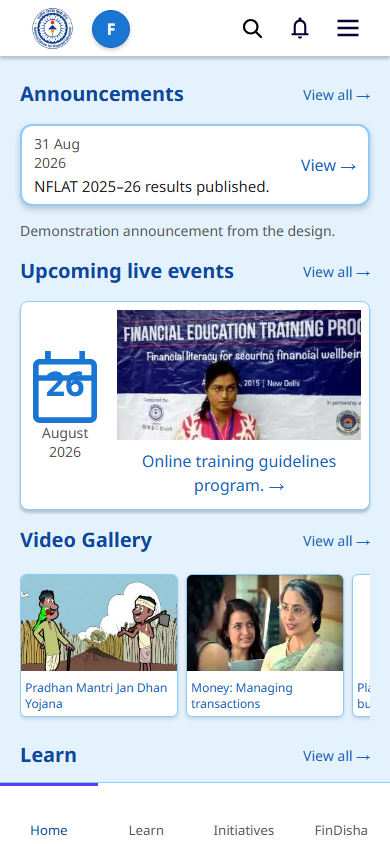
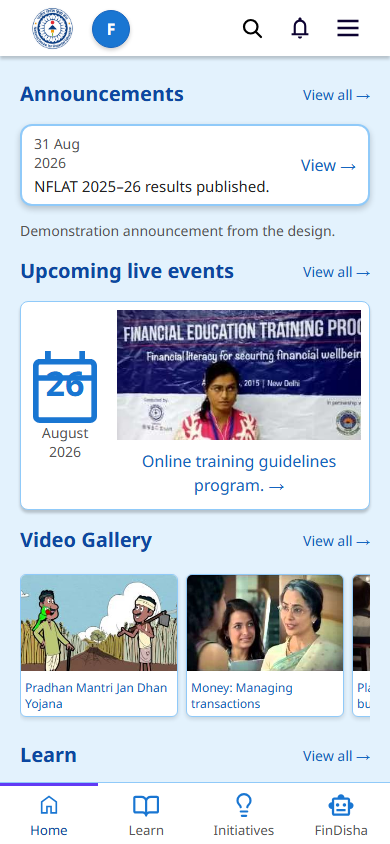
fix:preserve-learning-navigation-state

diff --git a/src/App.tsx b/src/App.tsx
@@ -1,6 +1,6 @@
 import { useTranslation, LocaleProvider } from './i18n';
 import { useEffect, useRef, useState } from 'react';
-import { Link, NavLink, Navigate, Route, Routes, useLocation, useNavigate } from 'react-router-dom';
+import { Link, Navigate, Route, Routes, useLocation, useNavigate } from 'react-router-dom';
 import { StateProvider, useApp } from './state';
 import { Presentation } from './Presentation';
 import { Dialog, Icon, Logo, Page, PrototypeNote } from './components/UI';
@@ -34,6 +34,6 @@ function Shell() {
         app.resetDemo();
         navigate('/onboarding');
     } }; window.addEventListener('message', receive); return () => window.removeEventListener('message', receive); }, [app, navigate]);
-    return <div className={`${s.shell} ${onboarding ? s.onboardShell : ''} ${app.dark ? s.dark : ''}`} lang={app.language}><a className={s.skipLink} href="#main-content">{t("Skip to content")}</a>{!onboarding && <header className={s.header}><Link to="/home" aria-label={t("NCFE prototype Home")}><Logo /></Link><div className={s.headerActions}><Link className={s.iconButton} to="/learn/search" aria-label={t("Topics Search")}><Icon name="search"/></Link><Link className={s.iconButton} to="/announcements" aria-label={t("Notifications")}><Icon name="notification"/></Link><button className={s.iconButton} onClick={() => setMenu(true)} aria-label={t("Open menu")}><Icon name="menu"/></button></div></header>}<button className={s.feedbackTrigger} onClick={() => setFeedback(true)} aria-label={t("Give Feedback")}><span className={s.mobileLabel} aria-hidden="true">{t("F")}</span><span className={s.desktopLabel}>{t("Feedback")}</span></button><main id="main-content" ref={main} className={s.main} tabIndex={-1}>{!onboarding && <div>{app.language !== 'en' && <p className={s.notice}>{t("Draft translation for usability testing. Programme and policy names remain unchanged. Text in original images may remain in English.")}</p>}</div>}<Routes><Route path="/" element={<Navigate to="/onboarding" replace/>}/><Route path="/onboarding" element={<Onboarding />}/><Route path="/home" element={<Home />}/><Route path="/announcements" element={<Announcements />}/><Route path="/events" element={<Announcements events/>}/><Route path="/learn" element={<Navigate to="/learn/textbooks" replace/>}/><Route path="/learn/textbooks" element={<Textbooks />}/><Route path="/learn/search" element={<TopicsSearch />}/><Route path="/learn/videos" element={<Videos />}/><Route path="/learn/topics/:topicId" element={<Topic />}/><Route path="/initiatives" element={<Initiatives />}/><Route path="/initiatives/:programmeId" element={<Programme />}/><Route path="/initiatives/:programmeId/register" element={<Registration />}/><Route path="/initiatives/:programmeId/review" element={<Review />}/><Route path="/initiatives/:programmeId/success" element={<RegistrationSuccess />}/><Route path="/account/login" element={<LoginDemo />}/><Route path="/findisha" element={<FinDisha />}/><Route path="/findisha/messages" element={<Messages />}/><Route path="/help" element={<Help />}/><Route path="/help/:channel" element={<SupportDemo />}/><Route path="/study" element={<Study />}/><Route path="/privacy" element={<Privacy />}/><Route path="*" element={<Page title={t("Page not found")} back><Link to="/home">{t("Return Home")}</Link></Page>}/></Routes></main>{!onboarding && <nav className={s.nav} aria-label={t("Primary navigation")}>{[{ to: '/home', label: 'Home', icon: 'home' }, { to: '/learn/textbooks', label: 'Learn', icon: 'book' }, { to: '/initiatives', label: 'Initiatives', icon: 'initiatives' }, { to: '/findisha', label: 'FinDisha', icon: 'chatbot' }].map(item => <NavLink key={item.to} to={item.to} aria-current={location.pathname.startsWith(item.to.split('/').slice(0, 2).join('/')) ? 'page' : undefined}><Icon name={item.icon as 'home' | 'book' | 'initiatives' | 'chatbot'}/><span>{t(item.label)}</span></NavLink>)}</nav>}{menu && <Dialog title={t("Menu")} onClose={() => setMenu(false)}><div className={s.menu}><Link to="/findisha/messages" onClick={() => setMenu(false)}>{t("Messages Log")}</Link><Link to="/onboarding" onClick={() => setMenu(false)}>{t("Language")}</Link><button aria-pressed={app.dark} onClick={() => app.setDark(!app.dark)}>{t(app.dark ? 'Light Mode' : 'Dark Mode')}</button><Link to="/help" onClick={() => setMenu(false)}>{t("Help")}</Link><Link to="/study" onClick={() => setMenu(false)}>{t("Usability testing")}</Link><Link to="/privacy" onClick={() => setMenu(false)}>{t("Privacy and withdrawal")}</Link></div><PrototypeNote /></Dialog>}{feedback && <FeedbackForm onClose={() => setFeedback(false)}/>}</div>;
+    return <div className={`${s.shell} ${onboarding ? s.onboardShell : ''} ${app.dark ? s.dark : ''}`} lang={app.language}><a className={s.skipLink} href="#main-content">{t("Skip to content")}</a>{!onboarding && <header className={s.header}><Link to="/home" aria-label={t("NCFE prototype Home")}><Logo /></Link><div className={s.headerActions}><Link className={s.iconButton} to="/learn/search" aria-label={t("Topics Search")}><Icon name="search"/></Link><Link className={s.iconButton} to="/announcements" aria-label={t("Notifications")}><Icon name="notification"/></Link><button className={s.iconButton} onClick={() => setMenu(true)} aria-label={t("Open menu")}><Icon name="menu"/></button></div></header>}<button className={s.feedbackTrigger} onClick={() => setFeedback(true)} aria-label={t("Give Feedback")}><span className={s.mobileLabel} aria-hidden="true">{t("F")}</span><span className={s.desktopLabel}>{t("Feedback")}</span></button><main id="main-content" ref={main} className={s.main} tabIndex={-1}>{!onboarding && <div>{app.language !== 'en' && <p className={s.notice}>{t("Draft translation for usability testing. Programme and policy names remain unchanged. Text in original images may remain in English.")}</p>}</div>}<Routes><Route path="/" element={<Navigate to="/onboarding" replace/>}/><Route path="/onboarding" element={<Onboarding />}/><Route path="/home" element={<Home />}/><Route path="/announcements" element={<Announcements />}/><Route path="/events" element={<Announcements events/>}/><Route path="/learn" element={<Navigate to="/learn/textbooks" replace/>}/><Route path="/learn/textbooks" element={<Textbooks />}/><Route path="/learn/search" element={<TopicsSearch />}/><Route path="/learn/videos" element={<Videos />}/><Route path="/learn/topics/:topicId" element={<Topic />}/><Route path="/initiatives" element={<Initiatives />}/><Route path="/initiatives/:programmeId" element={<Programme />}/><Route path="/initiatives/:programmeId/register" element={<Registration />}/><Route path="/initiatives/:programmeId/review" element={<Review />}/><Route path="/initiatives/:programmeId/success" element={<RegistrationSuccess />}/><Route path="/account/login" element={<LoginDemo />}/><Route path="/findisha" element={<FinDisha />}/><Route path="/findisha/messages" element={<Messages />}/><Route path="/help" element={<Help />}/><Route path="/help/:channel" element={<SupportDemo />}/><Route path="/study" element={<Study />}/><Route path="/privacy" element={<Privacy />}/><Route path="*" element={<Page title={t("Page not found")} back><Link to="/home">{t("Return Home")}</Link></Page>}/></Routes></main>{!onboarding && <nav className={s.nav} aria-label={t("Primary navigation")}>{[{ to: '/home', label: 'Home', icon: 'home' }, { to: '/learn/textbooks', label: 'Learn', icon: 'book' }, { to: '/initiatives', label: 'Initiatives', icon: 'initiatives' }, { to: '/findisha', label: 'FinDisha', icon: 'chatbot' }].map(item => <Link key={item.to} to={item.to} aria-current={location.pathname.startsWith(item.to.split('/').slice(0, 2).join('/')) ? 'page' : undefined}><Icon name={item.icon as 'home' | 'book' | 'initiatives' | 'chatbot'}/><span>{t(item.label)}</span></Link>)}</nav>}{menu && <Dialog title={t("Menu")} onClose={() => setMenu(false)}><div className={s.menu}><Link to="/findisha/messages" onClick={() => setMenu(false)}>{t("Messages Log")}</Link><Link to="/onboarding" onClick={() => setMenu(false)}>{t("Language")}</Link><button aria-pressed={app.dark} onClick={() => app.setDark(!app.dark)}>{t(app.dark ? 'Light Mode' : 'Dark Mode')}</button><Link to="/help" onClick={() => setMenu(false)}>{t("Help")}</Link><Link to="/study" onClick={() => setMenu(false)}>{t("Usability testing")}</Link><Link to="/privacy" onClick={() => setMenu(false)}>{t("Privacy and withdrawal")}</Link></div><PrototypeNote /></Dialog>}{feedback && <FeedbackForm onClose={() => setFeedback(false)}/>}</div>;
 }
 export default function App() { return <Presentation><StateProvider><LocaleProvider><Shell /></LocaleProvider></StateProvider></Presentation>; }

diff --git a/tests/shell.spec.ts b/tests/shell.spec.ts
@@ -16,6 +16,7 @@ test('language confirmation, cancel, navigation and original fixed shell',async(
  await page.getByRole('searchbox',{name:'Search topics'}).fill('bank accounts');
  await page.getByRole('link',{name:/Banking: Financial inclusion/}).click();
  await expect(page.getByRole('heading',{name:'Banking: Financial inclusion',exact:true})).toBeVisible();
+ await expect(page.getByRole('navigation').getByRole('link',{name:'Learn',exact:true})).toHaveAttribute('aria-current','page');
  await page.getByRole('button',{name:'Go back'}).click();
  await expect(page.getByRole('searchbox',{name:'Search topics'})).toHaveValue('bank accounts');
 });

diff --git a/docs/implementation-report.md b/docs/implementation-report.md
@@ -14,7 +14,7 @@ Original Figma screens and component tokens are the source of visual styling. Ca
 | 6 | Responsive feedback | [Feedback](screenshots/phase-6-feedback.png); Frame 224 cream/yellow/stars/close preserved, approved responsive language/submit additions |
 | 7 | Optional Firebase adapter, consent, four tasks, skips, outcomes, difficulty, modes, withdrawal, rules and aggregate logic | [Study](screenshots/phase-7-study.png); demonstrations remain available without Firebase |
 | Language update | Hindi/Odia draft text and multilingual search; programme/policy names preserved | [Hindi](screenshots/translated-hi.png), [Odia](screenshots/translated-or.png); user requested translation, draft review notice shown |
-| 8 | GitHub Pages workflow | Deployment is verified separately in the GitHub Actions run; do not infer live availability from a local build |
+| 8 | GitHub Pages workflow and published demonstration | [Successful validation and deployment run](https://github.com/Siddhibhavya/NCFE-PROTOTYPE/actions/runs/38440708140); mobile browser onboarding, navigation and demonstration feedback verified |
 | 9 | Lint, strict types, build, Vitest, browser and database-rule checks; documented manual accessibility checklist | [Accessibility checks and limitations](accessibility-testing.md) |
 
 ## Intentional prototype limitations
@@ -28,3 +28,5 @@ Original Figma screens and component tokens are the source of visual styling. Ca
 - Physical-device TalkBack/VoiceOver, manual scaling and full human accessibility testing are pending. Automated checks do not establish compliance.
 
 Only this prototype repository is changed. Portfolio integration remains documentation.
+
+Local verification: lint, strict types, build, 7 Vitest checks, 14 Playwright checks (including automated accessibility) and 4 Firestore access-control checks passed. Production dependency audit reported no known vulnerabilities. Physical-device/manual checks remain pending as listed above.
